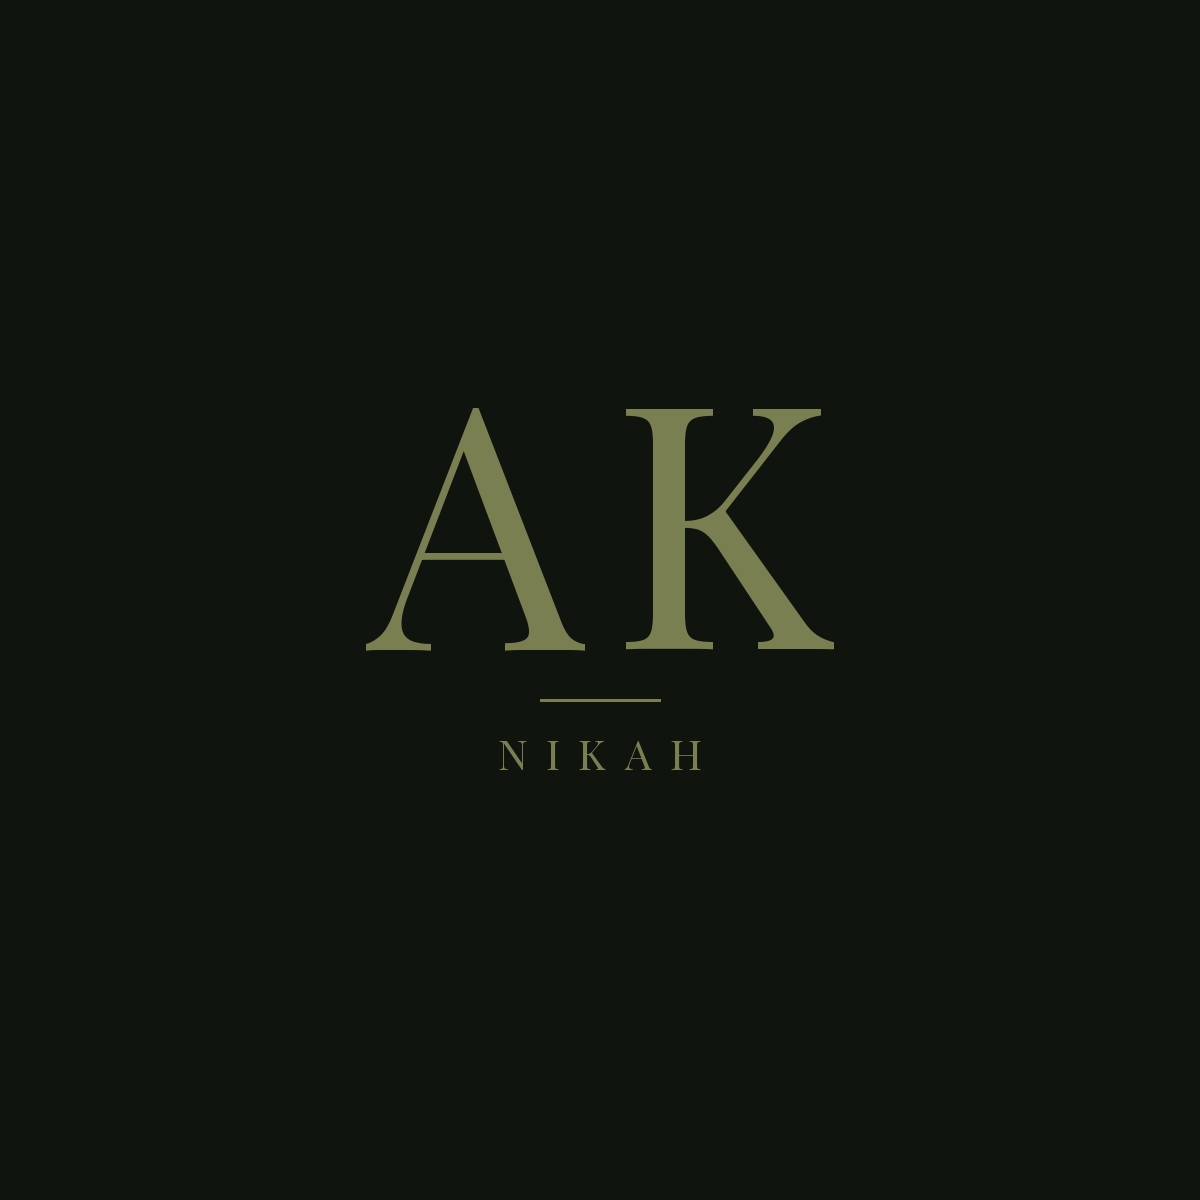
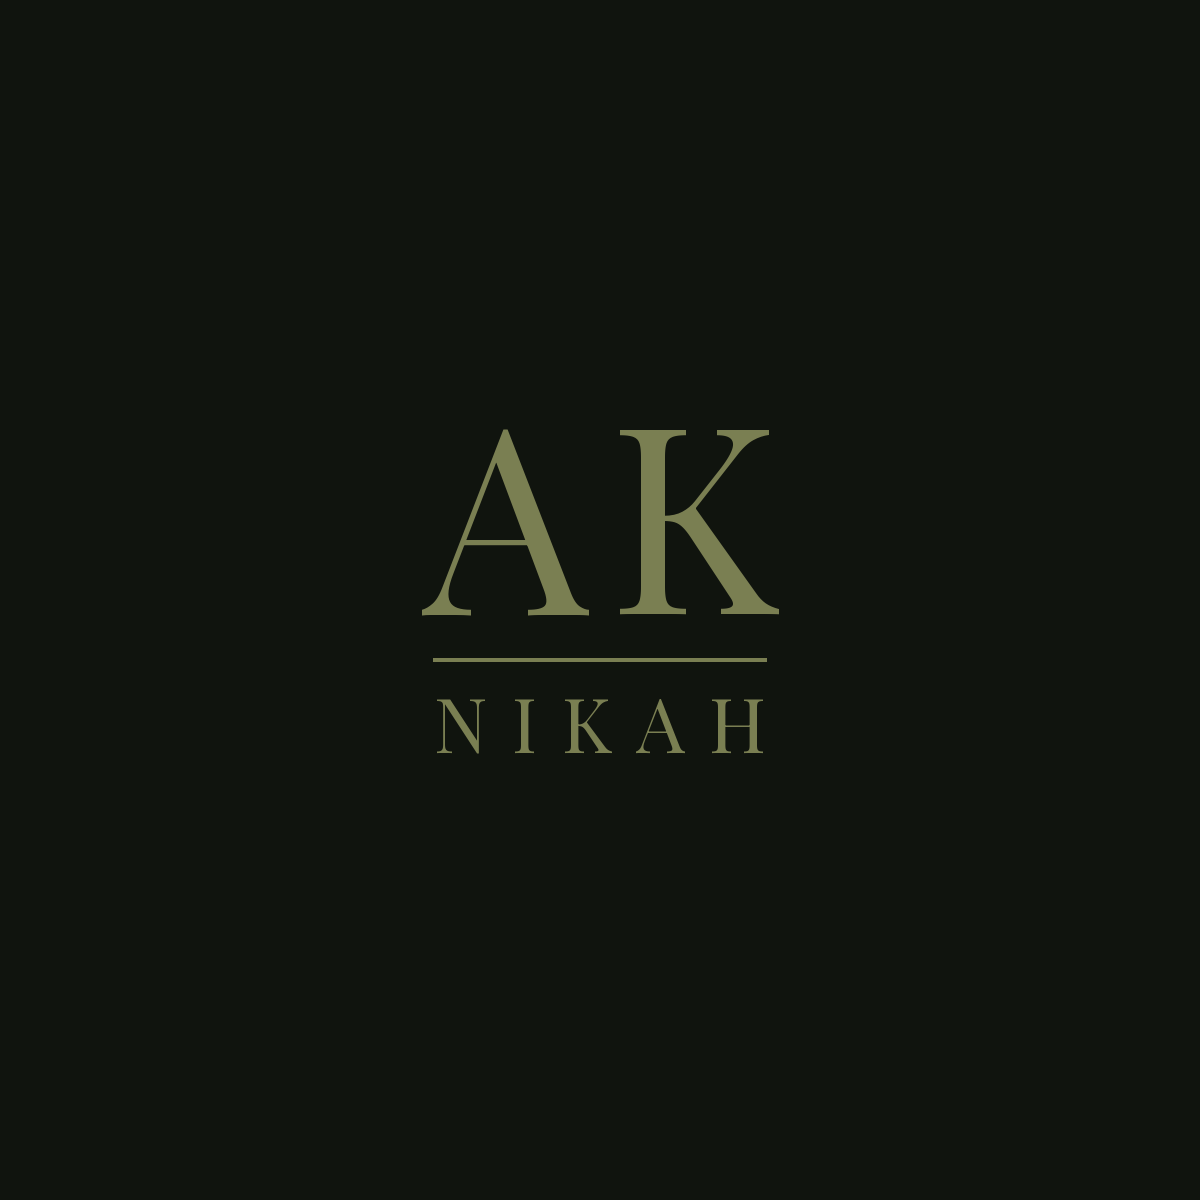
Scale OG preview rule and event title to match AK (#7)

Changed region(s): [[0.3083, 0.3392, 0.7092, 0.555], [0.4008, 0.5858, 0.6475, 0.6475], [0.37, 0.5858, 0.4008, 0.6167]]

diff --git a/index.html b/index.html
@@ -11,8 +11,8 @@
     <meta property="og:title" content="NIKAH · Adeel & Khadija">
     <meta property="og:description" content="You are invited to the Nikah of Adeel Ahmad and Khadija Butt. November 8, 2026 · Sumbal Chak Farmhouse, Lahore.">
     <meta property="og:url" content="https://adeelkhadijanikah.com/">
-    <meta property="og:image" content="https://adeelkhadijanikah.com/assets/og-image.png">
-    <meta property="og:image:secure_url" content="https://adeelkhadijanikah.com/assets/og-image.png">
+    <meta property="og:image" content="https://adeelkhadijanikah.com/assets/og-image.png?v=2">
+    <meta property="og:image:secure_url" content="https://adeelkhadijanikah.com/assets/og-image.png?v=2">
     <meta property="og:image:type" content="image/png">
     <meta property="og:image:width" content="1200">
     <meta property="og:image:height" content="1200">
@@ -20,8 +20,8 @@
     <meta name="twitter:card" content="summary_large_image">
     <meta name="twitter:title" content="NIKAH · Adeel & Khadija">
     <meta name="twitter:description" content="You are invited to the Nikah of Adeel Ahmad and Khadija Butt. November 8, 2026 · Sumbal Chak Farmhouse, Lahore.">
-    <meta name="twitter:image" content="https://adeelkhadijanikah.com/assets/og-image.png">
-    <link rel="image_src" href="https://adeelkhadijanikah.com/assets/og-image.png">
+    <meta name="twitter:image" content="https://adeelkhadijanikah.com/assets/og-image.png?v=2">
+    <link rel="image_src" href="https://adeelkhadijanikah.com/assets/og-image.png?v=2">
     <link rel="icon" href="favicon.ico?v=6" sizes="any">
     <link rel="icon" type="image/svg+xml" href="assets/favicon.svg?v=6">
     <link rel="icon" type="image/png" sizes="32x32" href="assets/favicon.png?v=6">
